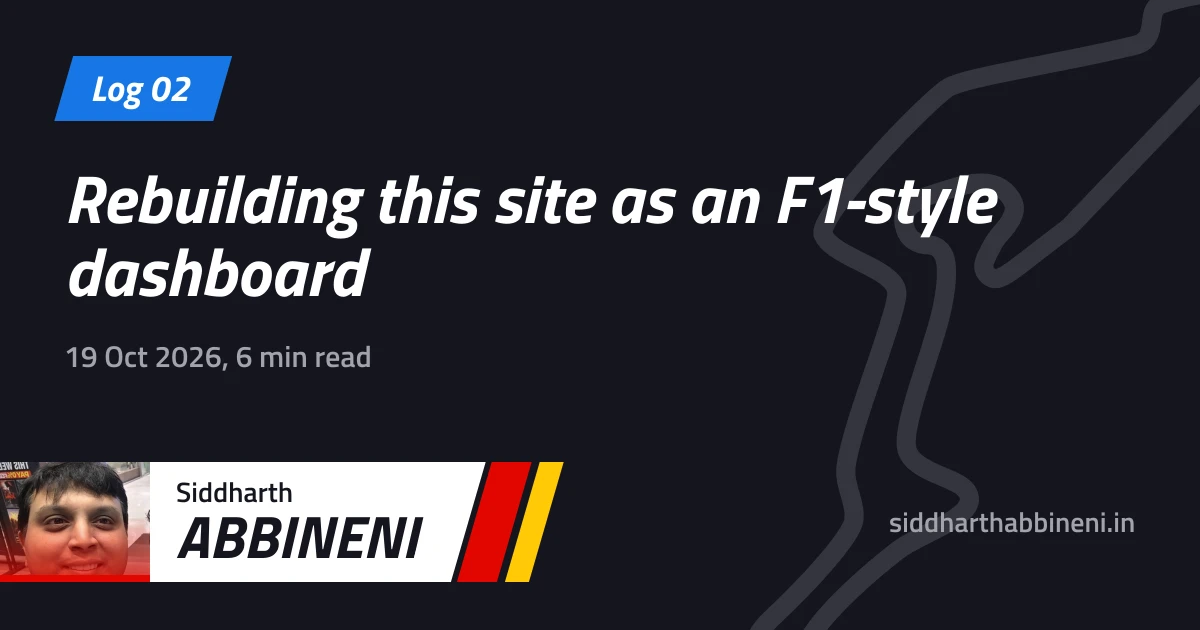
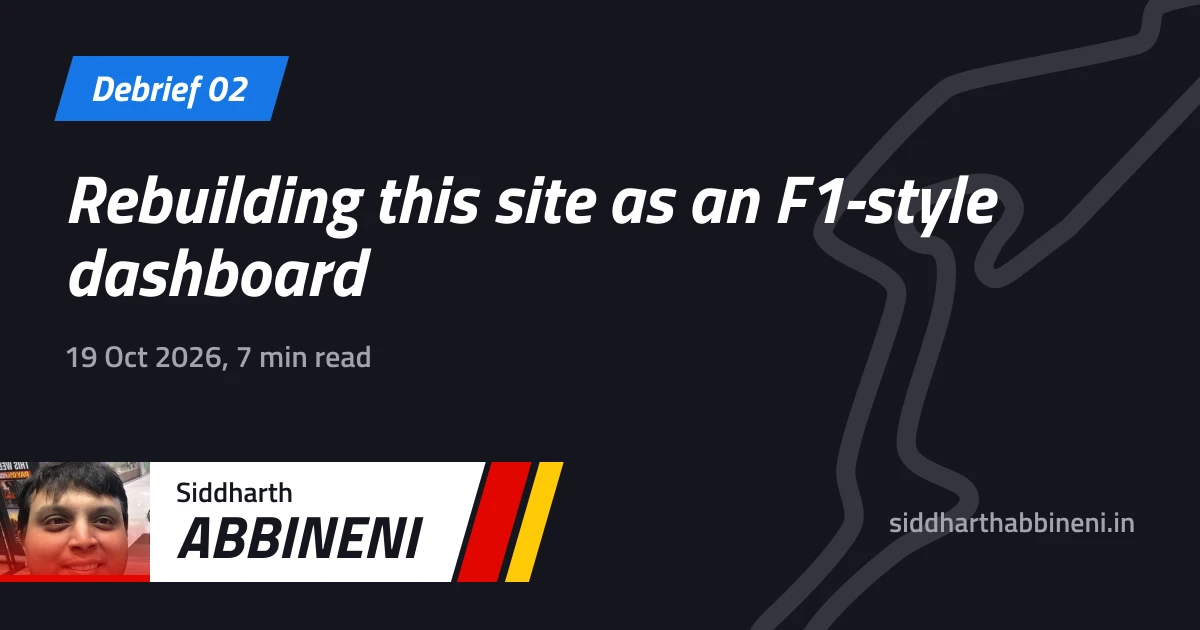
feat(press): Debrief and Past seasons instead of Log and Archive
New posts are numbered "Debrief 01" onwards, like the debrief after a
race. Posts from the old blogs sit under "Past seasons", grouped as
"2006 season", and their reader tab and share card say "Season 2006".

Changed region(s): [[0.0617, 0.0905, 0.2467, 0.2111], [0.185, 0.5429, 0.2158, 0.573]]

diff --git a/components/Press/PostList.tsx b/components/Press/PostList.tsx
@@ -1,6 +1,6 @@
 'use client'
 
-import { formatPostDate, logNumber, postHref } from 'lib/postFormat'
+import { debriefNumber, formatPostDate, postHref } from 'lib/postFormat'
 import Link from 'next/link'
 import { useSelectedLayoutSegment } from 'next/navigation'
 import {
@@ -52,8 +52,8 @@ function Highlight({ text, terms }: { text: string; terms: string[] }) {
 }
 
 /**
- * The post list (left column): new posts under Latest, posts brought over from
- * old blogs under Archive, grouped by year. It shows the open post's tab.
+ * The post list (left column): new posts under Debriefs, posts brought over
+ * from old blogs under Past seasons, grouped by year. It shows the open post's tab.
  * Typing in the search box lists matches from both tabs instead.
  */
 export default function PostList({
@@ -117,8 +117,8 @@ export default function PostList({
 	}, [])
 
 	const tabs: { id: View; label: string; count: number }[] = [
-		{ id: 'latest', label: 'Latest', count: latest.length },
-		{ id: 'archive', label: 'Archive', count: archive.length },
+		{ id: 'latest', label: 'Debriefs', count: latest.length },
+		{ id: 'archive', label: 'Past seasons', count: archive.length },
 	]
 
 	const showTab = (next: View) => {
@@ -136,7 +136,7 @@ export default function PostList({
 	}
 
 	const labelOf = (p: ListedPost) =>
-		p.site ?? logNumber(latest.length - latest.indexOf(p))
+		p.site ?? debriefNumber(latest.length - latest.indexOf(p))
 
 	const entry = (p: ListedPost, snippet?: ReactNode) => (
 		<li key={p.slug}>
@@ -257,14 +257,14 @@ export default function PostList({
 							<ol className={styles.group}>{latest.map((p) => entry(p))}</ol>
 						) : (
 							<p className={styles.empty}>
-								Nothing new yet. The archive has {archive.length} older posts.
+								Nothing new yet. Past seasons have {archive.length} older posts.
 							</p>
 						))}
 					{view === 'archive' &&
 						[...Map.groupBy(archive, (p) => p.date.slice(0, 4))].map(
 							([year, group]) => (
 								<section key={year} aria-label={year}>
-									<h3 className={styles.year}>{year}</h3>
+									<h3 className={styles.year}>{year} season</h3>
 									<ol className={styles.group}>{group.map((p) => entry(p))}</ol>
 								</section>
 							)

diff --git a/components/Press/Reader.tsx b/components/Press/Reader.tsx
@@ -1,4 +1,9 @@
-import { formatPostDate, logNumber, postHref } from 'lib/postFormat'
+import {
+	debriefNumber,
+	formatPostDate,
+	postHref,
+	seasonOf,
+} from 'lib/postFormat'
 import { getPostContent, isArchived } from 'lib/posts'
 import Link from 'next/link'
 import { ViewTransition } from 'react'
@@ -38,8 +43,8 @@ export default async function Reader({
 			<div className={styles.readerHead}>
 				<span className="tab slr" data-colour="blue">
 					{post.archive
-						? `Archive, ${post.archive.site}`
-						: logNumber(list.length - index)}
+						? seasonOf(post.date)
+						: debriefNumber(list.length - index)}
 				</span>
 				<span className={styles.readTime}>{post.readingMinutes} min read</span>
 				{/* once the post's own title has scrolled away */}

diff --git a/lib/postFormat.ts b/lib/postFormat.ts
@@ -12,8 +12,12 @@ const dateFormat = new Intl.DateTimeFormat('en-GB', {
 export const formatPostDate = (date: string) =>
 	dateFormat.format(new Date(`${date}T00:00:00Z`))
 
-/** 'Log 07': posts are numbered oldest first */
-export const logNumber = (n: number) => `Log ${String(n).padStart(2, '0')}`
+/** 'Debrief 07', like the debrief after a race: new posts, numbered oldest first */
+export const debriefNumber = (n: number) =>
+	`Debrief ${String(n).padStart(2, '0')}`
+
+/** 'Season 2006': a post from an old blog goes by its year */
+export const seasonOf = (date: string) => `Season ${date.slice(0, 4)}`
 
 /** A post's URL (slugs are file names, so they never contain a slash) */
 export const postHref = (slug: string) => `/blog/${slug}` as Route

diff --git a/app/(profile)/blog/[slug]/opengraph-image.tsx b/app/(profile)/blog/[slug]/opengraph-image.tsx
@@ -1,5 +1,5 @@
 import { profile } from 'config/profile'
-import { formatPostDate, logNumber } from 'lib/postFormat'
+import { debriefNumber, formatPostDate, seasonOf } from 'lib/postFormat'
 import { getPosts, isArchived } from 'lib/posts'
 import { CARD_SIZE, shareCard } from 'lib/shareCard'
 
@@ -31,8 +31,8 @@ export default async function Image({
 	const list = posts.filter((p) => isArchived(p) === isArchived(post))
 	return shareCard({
 		tab: post.archive
-			? `Archive, ${post.archive.site}`
-			: logNumber(list.length - list.indexOf(post)),
+			? seasonOf(post.date)
+			: debriefNumber(list.length - list.indexOf(post)),
 		colour: 'blue',
 		title: post.title,
 		meta: `${formatPostDate(post.date)}, ${post.readingMinutes} min read`,

diff --git a/content/posts/rebuilding-this-site-as-an-f1-dashboard.md b/content/posts/rebuilding-this-site-as-an-f1-dashboard.md
@@ -102,7 +102,7 @@ I had a blog long before dev.to. It started on Blogger, moved to WordPress on th
 
 Its API lists every address it saved for a domain. For my two old domains that was about 1,300 addresses, and most were junk: client sites I used to host, and the crawler going round in circles. After removing duplicates I had 145 posts. Opus wrote a scraper that fetched them slowly, then a second script went looking for the images. Most image hosts from 2006 are gone (RIP echo.cx and ImageShack), so some pictures are lost for good.
 
-I kept the posts exactly as I wrote them, typos and all. They're in the Archive tab under Press now. Reading 2006 me go on about BSNL and the new Iron Maiden album made the whole thing worth it.
+I kept the posts exactly as I wrote them, typos and all. They're under Past seasons in Press now, each labelled with its year. Reading 2006 me go on about BSNL and the new Iron Maiden album made the whole thing worth it.
 
 ## What I'd tell myself
 
